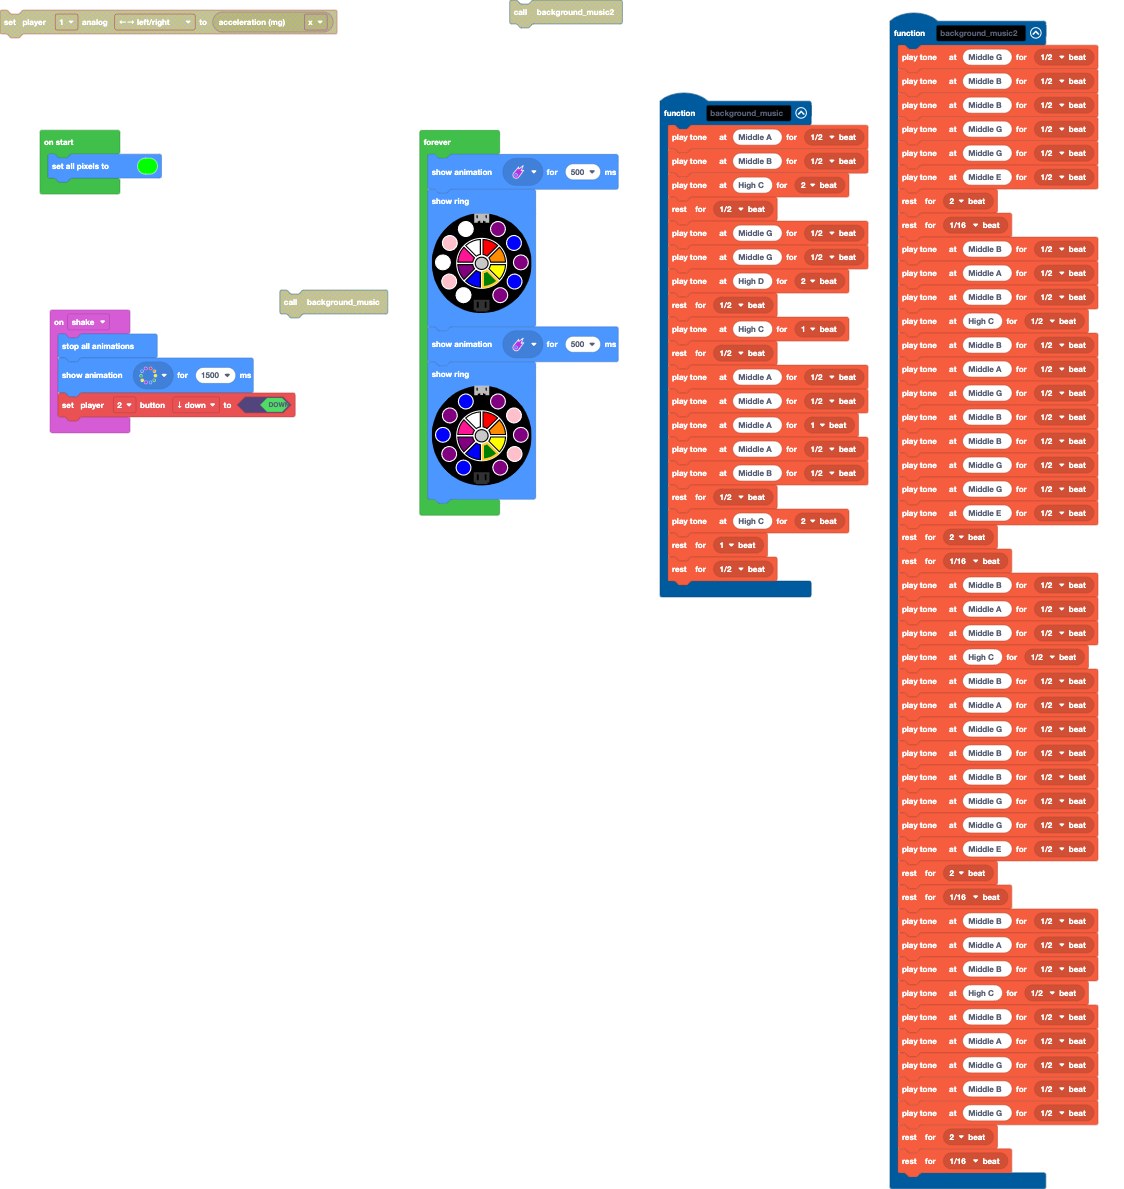
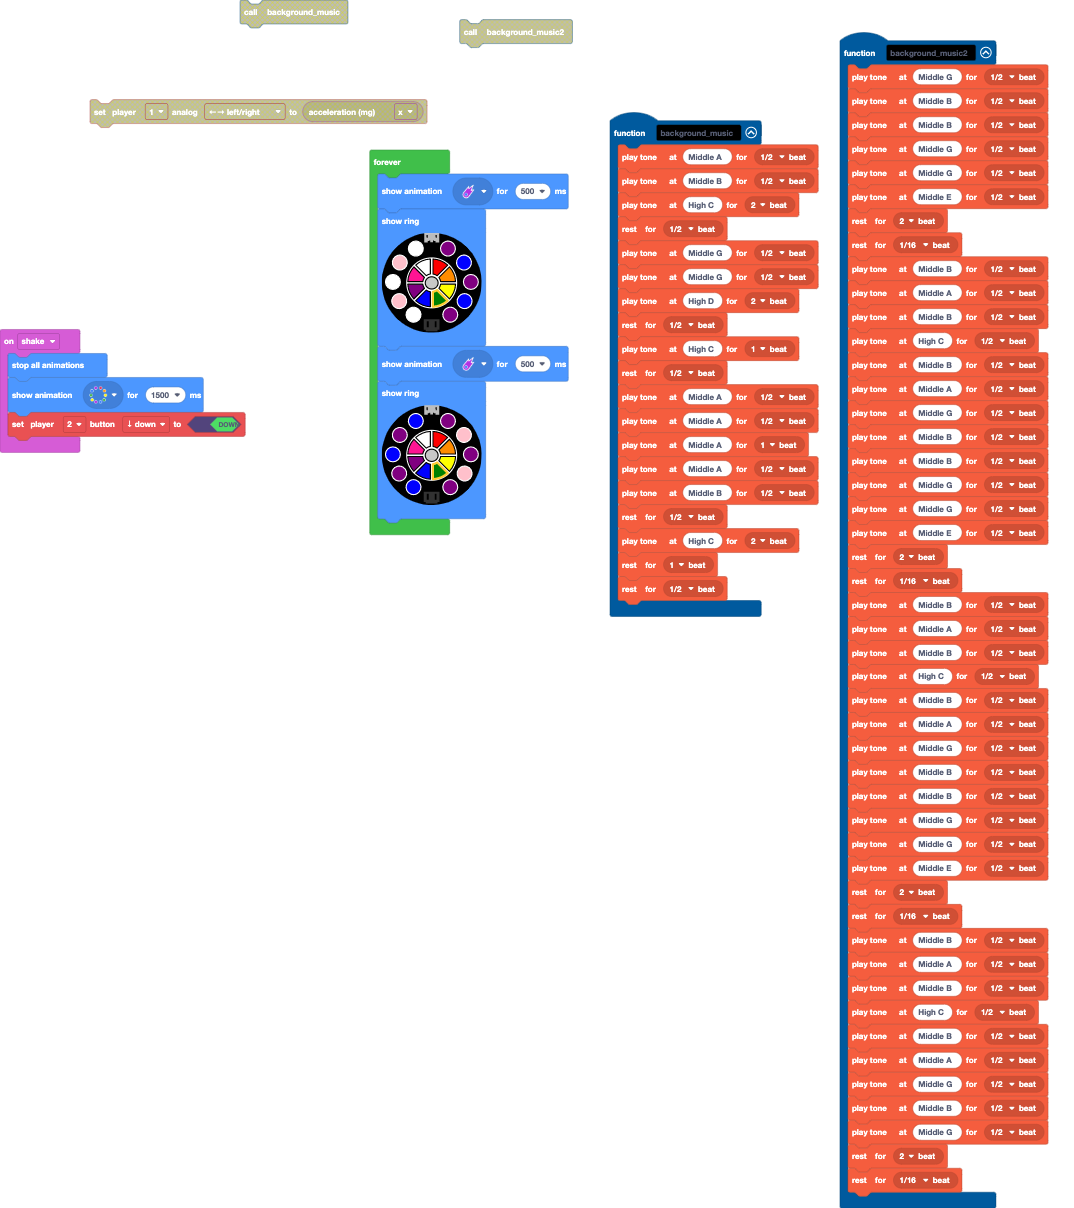
Update main.blocks, main.ts

diff --git a/main.ts b/main.ts
@@ -73,7 +73,6 @@ function background_music () {
     music.rest(music.beat(BeatFraction.Whole))
     music.rest(music.beat(BeatFraction.Half))
 }
-light.setAll(0x00ff00)
 forever(function () {
     light.showAnimation(light.cometAnimation, 500)
     light.showRing(
